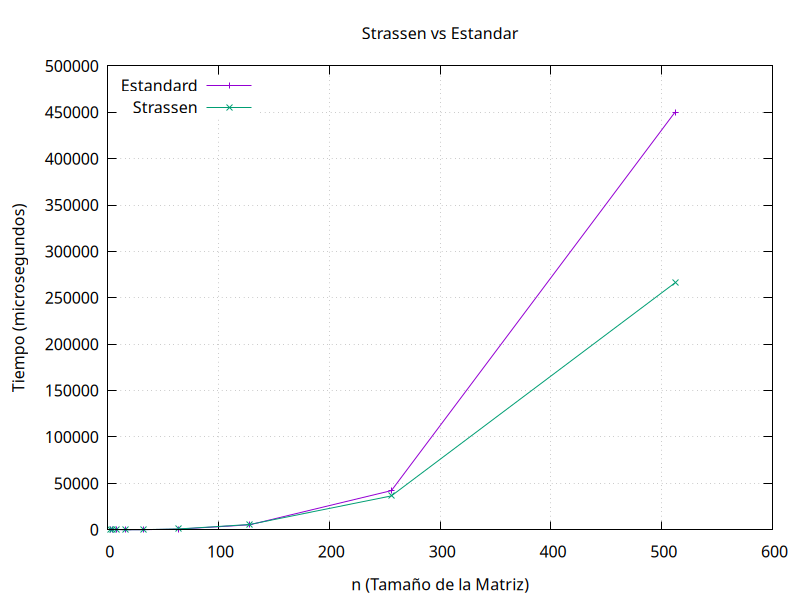
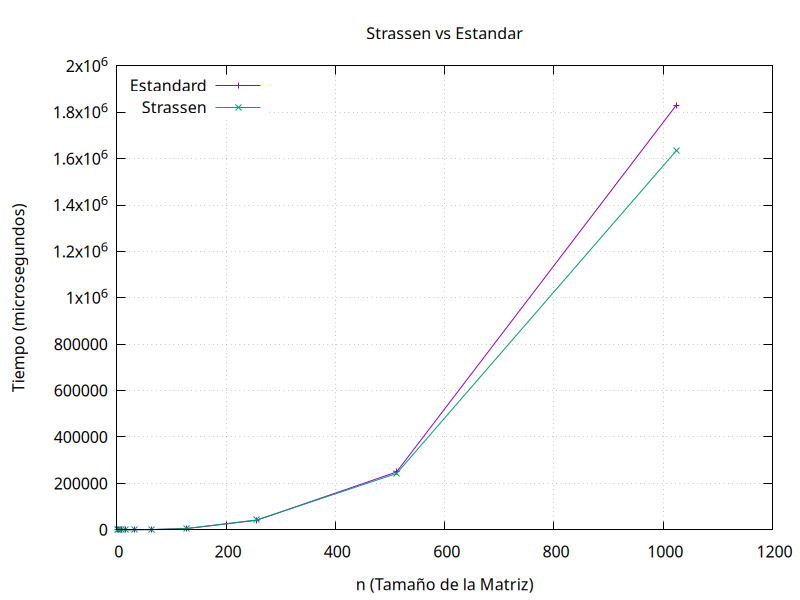
Se optimiza multiplyStandar cambiando orden de bucles de i-j-k a i-k-j para mejorar localidad de caché: b recorre filas en vez de columnas, reduciendo cache misses. Se aumenta tamaño máximo evaluado a n=1024

diff --git a/main.cpp b/main.cpp
@@ -27,9 +27,10 @@ Matriz multiplyStandar(const Matriz& a, const Matriz& b) {
   }
   int n = a.size();
   Matriz c(n, vector<int>(n, 0));
+  // Orden i-k-j mejor localidad de caché (b recorre filas, no columnas)
   for(int i = 0; i < n; i++) {
-    for(int j = 0; j < n; j++) {
-      for(int k = 0; k < n; k++) {
+    for(int k = 0; k < n; k++) {
+      for(int j = 0; j < n; j++) {
         c[i][j] += a[i][k] * b[k][j];
       }
     }
@@ -153,12 +154,10 @@ static double measureStrassen(const Matriz& A, const Matriz& B) {
 
 int main(){
   srand(time(0));
-  
   const int REPETICIONES = 10;
-
   cout << "# n tiempo_standar tiempo_strassen" << endl;
   
-  vector<int> sizes = {2, 4, 8, 16, 32, 64, 128, 256, 512};
+  vector<int> sizes = {2, 4, 8, 16, 32, 64, 128, 256, 512, 1024};
 
   for(int size : sizes) {
     Matriz A = generateMatriz(size);